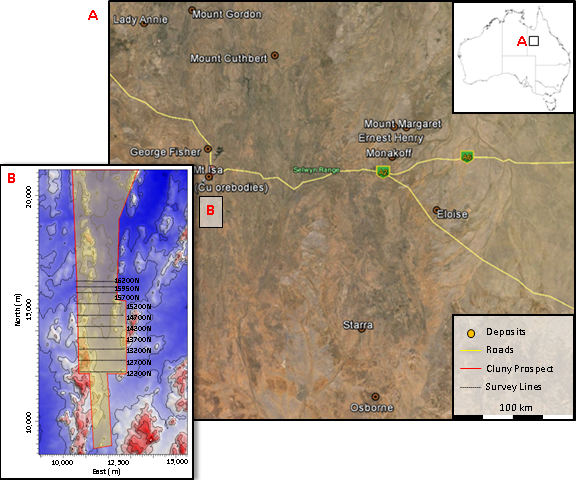
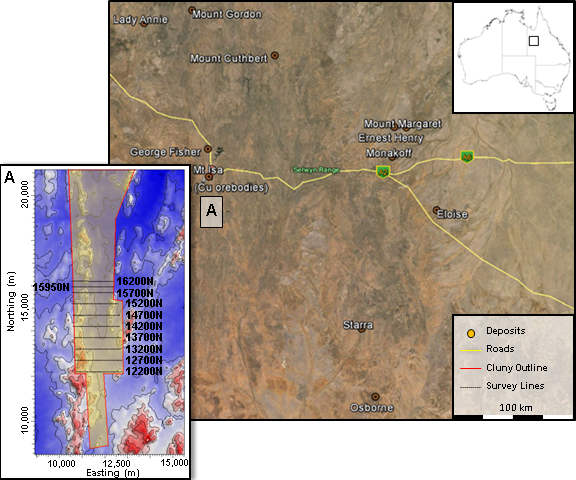
Merge Kris' update and reformat Location map

Changed region(s): [[0.0, 0.3438, 0.375, 1.0], [0.8438, 0.6875, 0.9688, 0.8125], [0.0, 0.3438, 0.0312, 0.375]]

diff --git a/content/case_histories/mt_isa/setup.rst b/content/case_histories/mt_isa/setup.rst
@@ -3,23 +3,15 @@
 Setup
 =====
 
-.. Prelude
-.. -------
+The Mount Isa region (:numref:`Location_map`) hosts numerous deposits (Lead, Zinc, Silver, Copper, and Gold) within an area under continuous exploration. This region is found in west Queenland, Australia. Within this region, ten lines acquiring direct current (DCR) and induced polarization (IP) lines were placed over what is now referred to as the Cluny Mine (Copper), 22 km south of the city of Mt Isa.
 
-
-.. This Case History is based upon the paper: 2-D and 3-D IP/resistivity for the interpretation of Isa-style targets by Rutley, Oldenburg and Shekthman [1]_.
-
-.. This was one of the first examples of inverting DC/IP field data to recover 3D distributions of resistivity and chargeability. Before this time the inversion of field data was primarily carried out in 2D. We use this case history is to provide an example for inverting DCR and IP data and make the connecting links to the fundamentals of EM as presented in EM.geosci.xyz.  
-
-.. figure:: images/Location_Map_Paper.png
-    :align: right
-    :scale: 80% 
-    :figwidth: 40%
+.. figure:: images/Location_Map_KDF.png
+    :align: left
+    :figwidth: 100%
     :name: Location_map
 
-    Location map of the Mount Isa study. 
+    Location map of the Mount Isa area and (a) inset over the Cluny Prospect study area. Neighboring mineral deposits are shown for reference.
 
-The Mount Isa region (:numref:`Location_map`) hosts numerous deposits (Lead, Zinc, Silver, Copper, and Gold) within an area under continuous exploration. This region is found in west Queenland, Australia. Within this region, ten lines acquiring direct current (DCR) and induced polarization (IP) lines were placed over what is now referred to as the Cluny Mine (Copper), 22 km south of the city of Mt Isa.
 
 Geological Background
 ---------------------
@@ -34,15 +26,15 @@ metasiltstones containing gossanous material of coarse grained
 pyrite, pyrrhotite, and magnetite, with variable sphalerite, galena,
 marcasite, chalcopyrite, arsenopyrite and accessories :cite:`russel1978`. Exploration along this horizon has occurred over a 40
 year period. The best drilling intersection recorded is from a 4
-m interval containing 100 g/T Ag, 7.6% Pb and 11.6% Zn :cite:`poole1981`. 
+m interval containing 100 g/T Ag, 7.6% Pb and 11.6% Zn :cite:`poole1981`.
 
 
 .. figure:: ./images/Geological_Section_Paper.png
     :align: left
-    :scale: 80% 
+    :scale: 80%
     :name: Geology_Section
 
-    Vertical cross section of geology from Mount Isa 
+    Vertical cross section of geology from Mount Isa
 
 
 At Cluny, copper mineralisation

diff --git a/content/case_histories/mt_isa/index.rst b/content/case_histories/mt_isa/index.rst
@@ -3,15 +3,17 @@
 Mt. Isa
 =======
 
-This Case History is based upon the paper: **2-D and 3-D IP/resistivity for
-the interpretation of Isa-style targets** by Rutley, Oldenburg and Shekthman
-:cite:`rutley2001`.
+.. topic :: Prelude
 
-This was one of the first examples of inverting DC/IP field data to recover 3D
-distributions of resistivity and chargeability. Before this time the inversion
-of field data was primarily carried out in 2D. We use this case history is to
-provide an example for inverting DCR and IP data and make the connecting links
-to the fundamentals of EM as presented in EM.geosci.xyz.
+    This Case History is based upon the paper: **2-D and 3-D IP/resistivity for
+    the interpretation of Isa-style targets** by Rutley, Oldenburg and Shekthman
+    :cite:`rutley2001`.
+
+    This was one of the first examples of inverting DC/IP field data to recover 3D
+    distributions of resistivity and chargeability. Before this time the inversion
+    of field data was primarily carried out in 2D. We use this case history is to
+    provide an example for inverting DCR and IP data and make the connecting links
+    to the fundamentals of EM as presented in EM.geosci.xyz.
 
 
 .. toctree::
